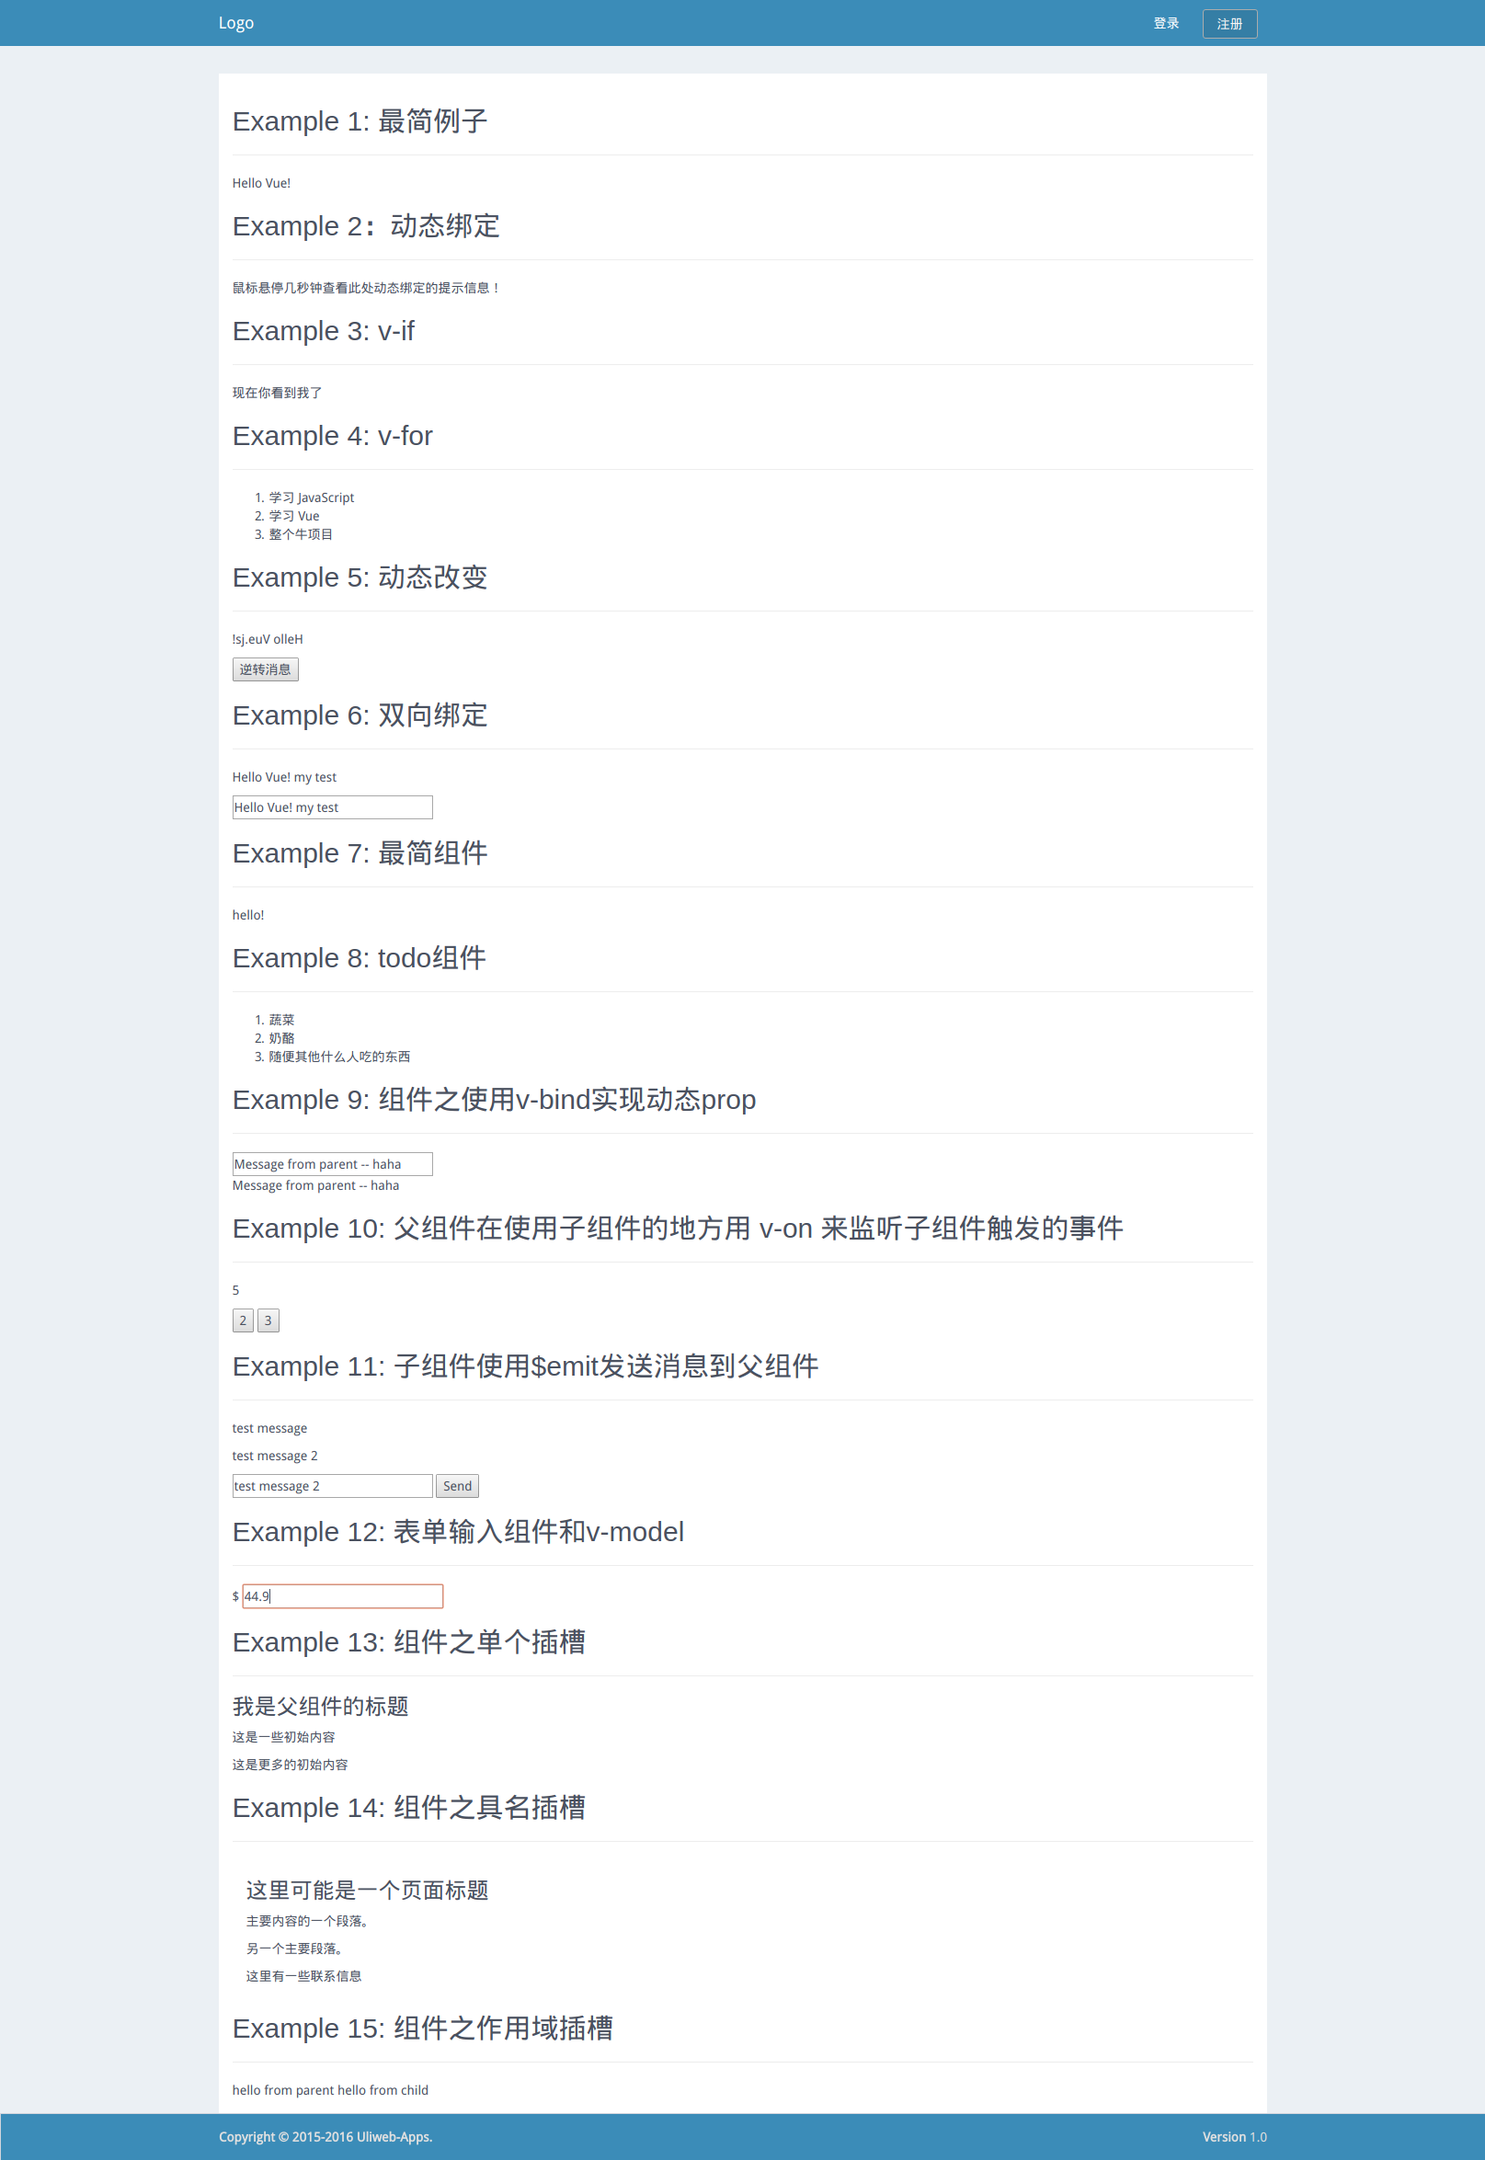
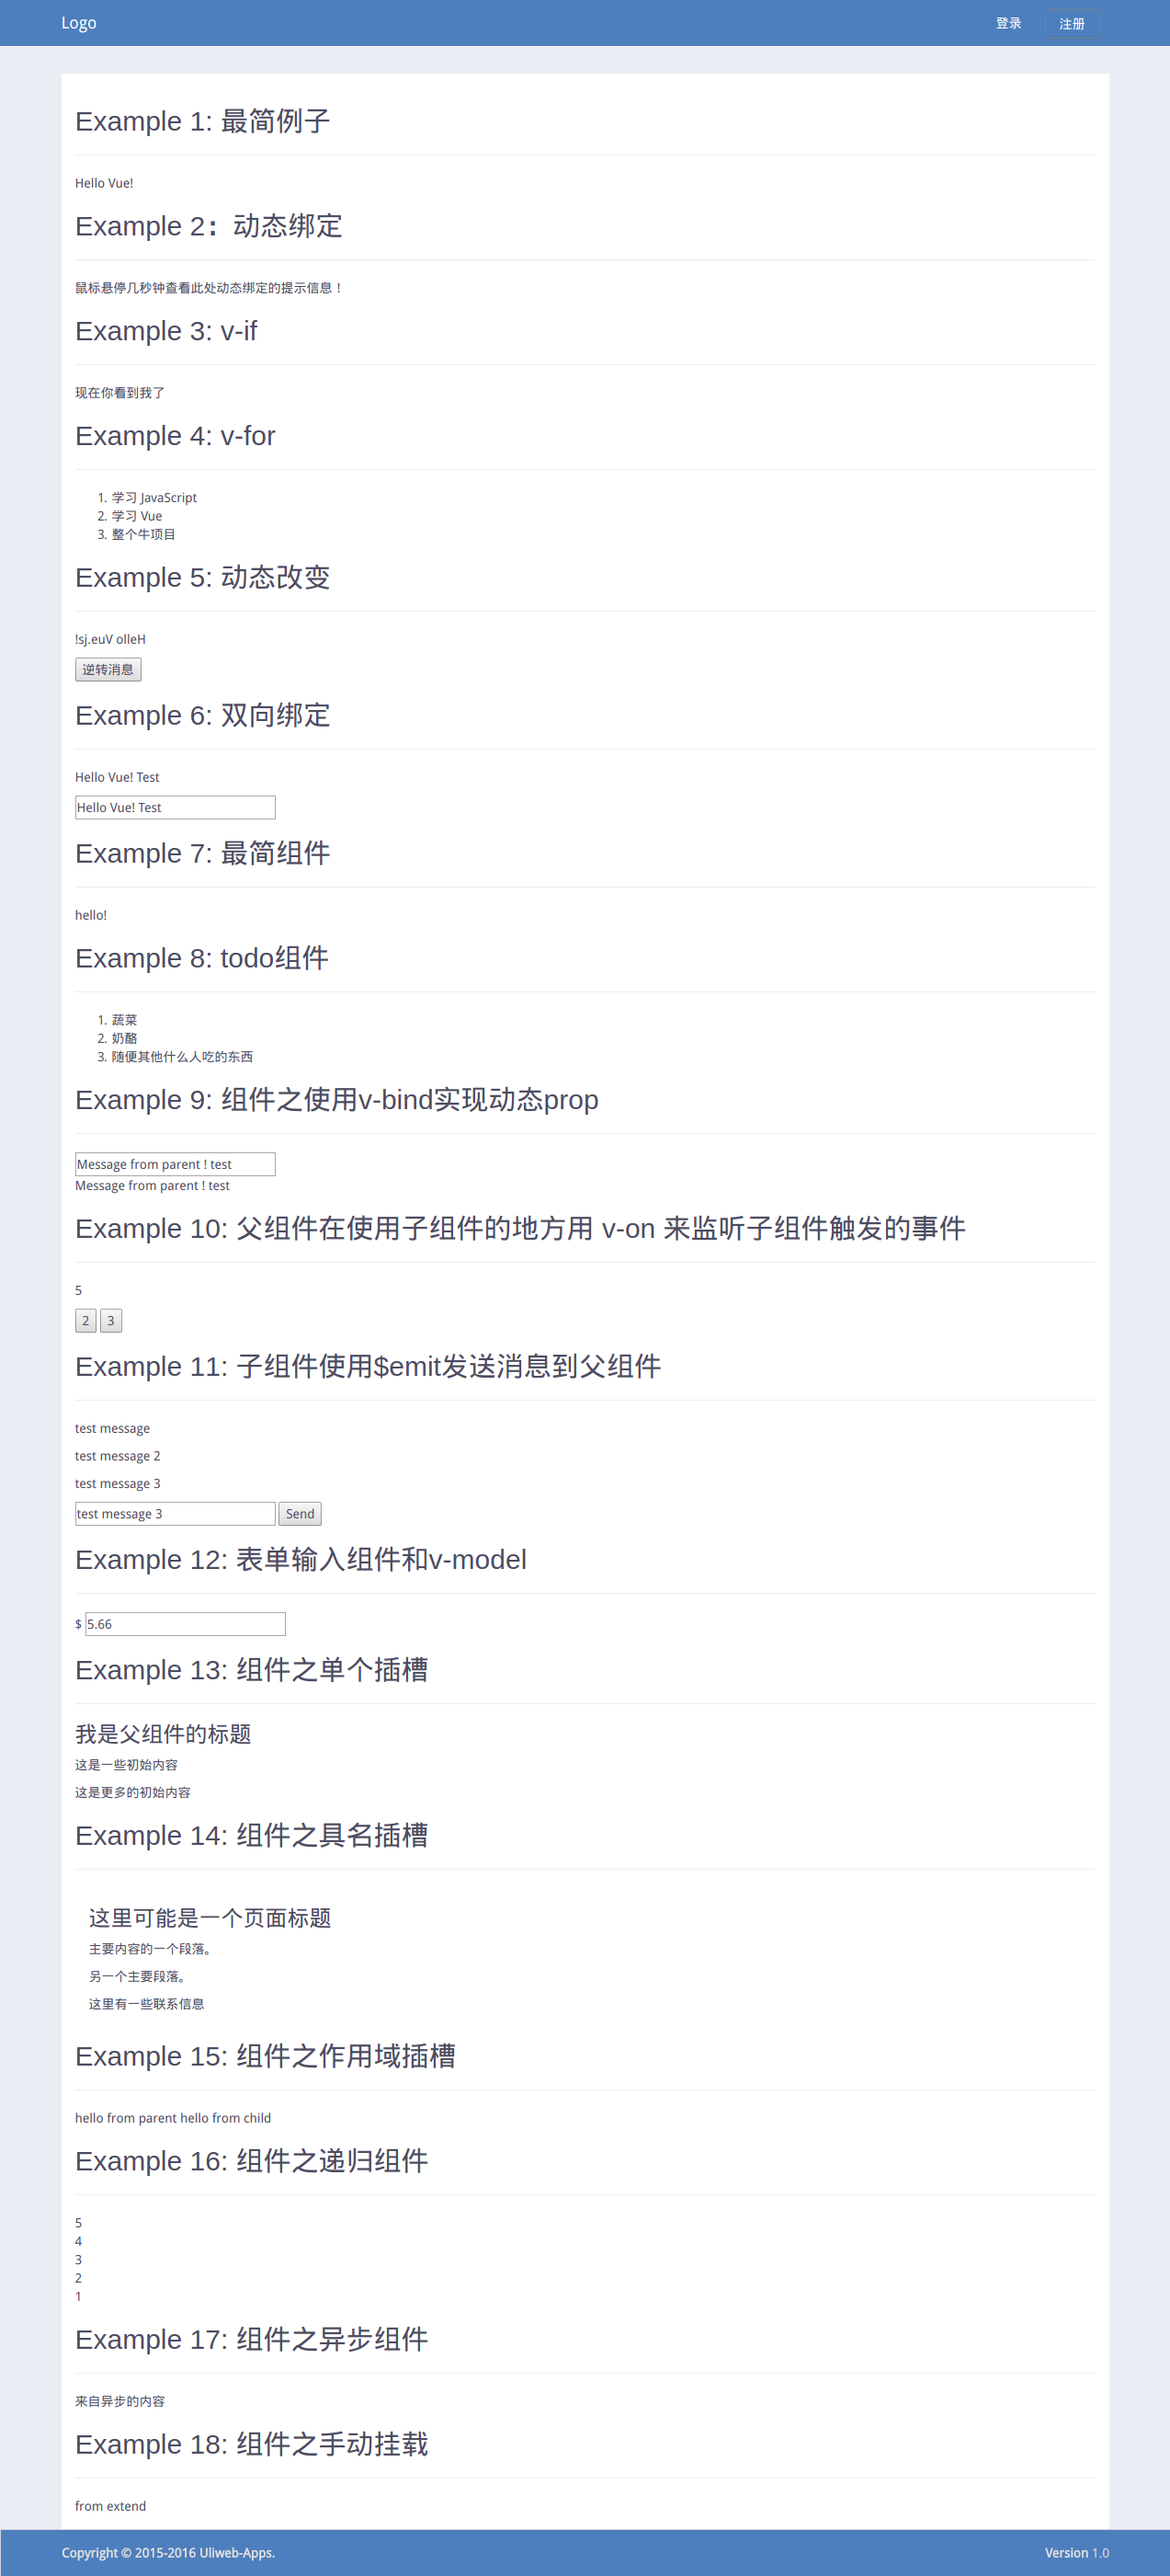
add vuejs example 16 17 18

diff --git a/uliweb-apps-example3-vuejs/apps/example/templates/index.html b/uliweb-apps-example3-vuejs/apps/example/templates/index.html
@@ -396,4 +396,62 @@ new Vue({
 })
 </script>
 
+<h2>Example 16: 组件之递归组件</h2> <hr>
+<div id="app-16">
+  <e16-comr :count="1"></e16-comr>
+</div>
+<script>
+Vue.component('e16-comr', {
+  name : 'comR',
+  props : {
+    count : {
+      type : Number,
+      default : 1
+    }
+  },
+  template: `
+<div>
+  <e16-comr :count="count+1" v-if="count < 5"></e16-comr>{count}
+</div>
+`,
+  delimiters: ['{', '}']
+})
+
+new Vue({
+  el: '#app-16',
+  delimiters: ['{', '}']
+})
+</script>
+
+<h2>Example 17: 组件之异步组件</h2> <hr>
+<div id="app-17">
+  <e17-com></e17-com>
+</div>
+<script>
+Vue.component('e17-com', function(resolve, reject){
+  window.setTimeout(function(){
+    resolve({
+      template : '<div>来自异步的内容</div>'
+    })
+  },2000)
+})
+
+new Vue({
+  el: '#app-17',
+  delimiters: ['{', '}']
+})
+</script>
+
+<h2>Example 18: 组件之手动挂载</h2> <hr>
+<div id="app-18">
+    <div id="e18com"> original</div>
+</div>
+
+<script>
+  const myE18Component = Vue.extend({
+    template : '<div>from extend</div>'
+  })
+  new myE18Component().$mount('#e18com')
+</script>
+
 {{end}}
